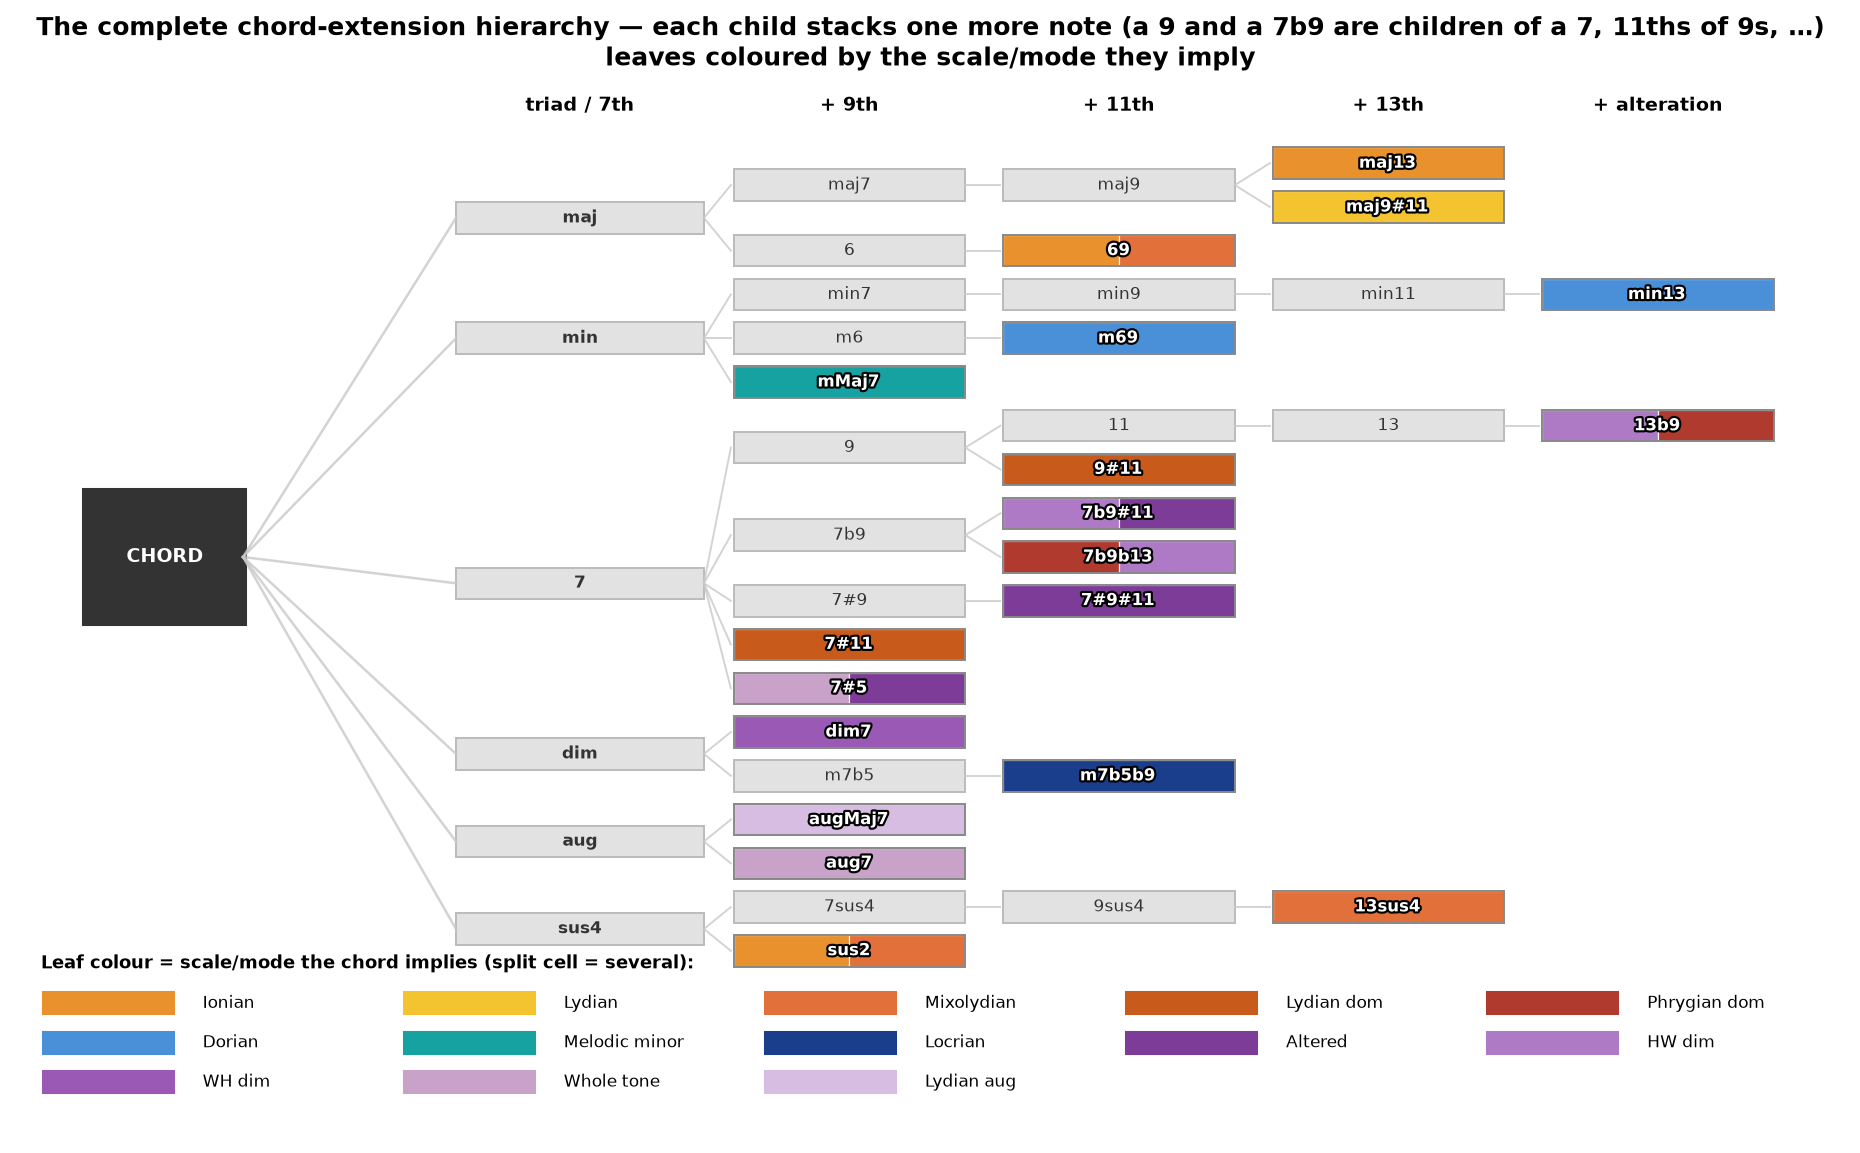
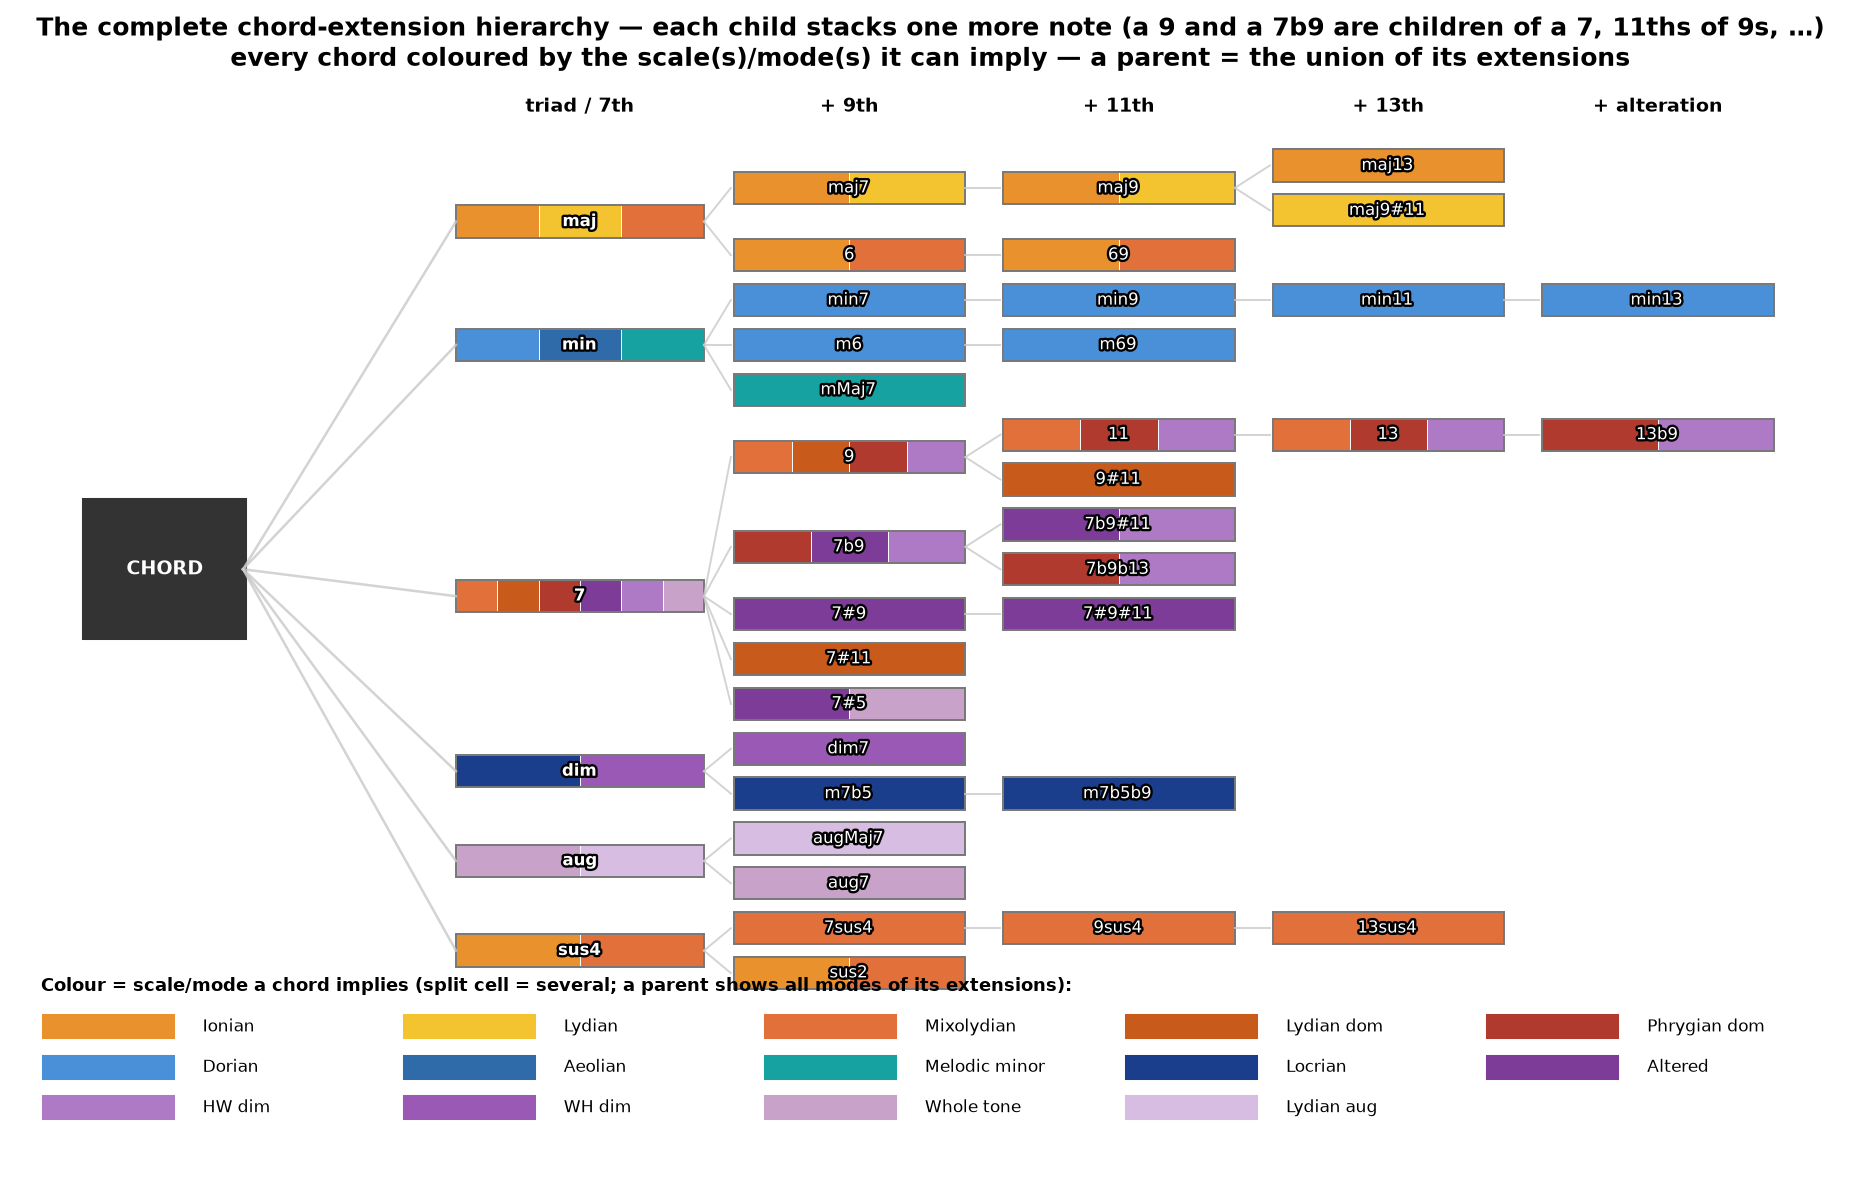
viz: colour parents with the union of their children's modes (all modes they can imply)
Every chord node (not just leaves) is now coloured by the union of scale/modes over
its subtree — a parent shows all the modes it can correspond to (7 = Mixolydian +
Lydian-dom + Phrygian-dom + Altered + Whole-tone + HW-dim; maj = Ionian+Lydian+Mixo).

diff --git a/scripts/plot_hierarchy_trees.py b/scripts/plot_hierarchy_trees.py
@@ -198,7 +198,18 @@ MODE_PALETTE = {
     "Altered": "#7D3C98", "HW dim": "#AF7AC5", "WH dim": "#9B59B6",
     "Whole tone": "#C8A2C8", "Lydian aug": "#D7BDE2",
 }
-INTERNAL_FILL = "#E2E2E2"   # parents are NOT coloured (deduced from their extensions)
+# own mode(s) of the INTERNAL chords (parents), so a parent shows the union of all
+# modes in its subtree = every mode it can correspond to.
+CHORD_INTERNAL_MODES = {
+    "maj": ["Ionian"], "min": ["Dorian", "Aeolian"], "dim": ["WH dim"],
+    "aug": ["Whole tone"], "sus4": ["Mixolydian"],
+    "maj7": ["Ionian"], "6": ["Ionian"], "7": ["Mixolydian"],
+    "min7": ["Dorian"], "m6": ["Dorian"], "m7b5": ["Locrian"],
+    "maj9": ["Ionian"], "9": ["Mixolydian"], "7b9": ["Phrygian dom", "HW dim"],
+    "7#9": ["Altered"], "min9": ["Dorian"], "9sus4": ["Mixolydian"],
+    "11": ["Mixolydian"], "min11": ["Dorian"], "13": ["Mixolydian"],
+}
+CHORD_ALL_MODES = {**CHORD_LEAF_MODES, **CHORD_INTERNAL_MODES}
 
 
 def plot_extension_hierarchy():
@@ -218,11 +229,25 @@ def plot_extension_hierarchy():
     n = leafy[0]
     maxd = max(d for d, _ in pos.values())
 
-    fig, ax = plt.subplots(figsize=(1.9 * (maxd + 1) + 2, 0.36 * n + 1.5))
+    # every node's modes = union of its own + all descendants' (ordered), so a
+    # parent shows all the modes it can correspond to.
+    node_modes = {}
+
+    def collect(node, path):
+        s = set(CHORD_ALL_MODES.get(path[-1], []))
+        for k, v in node.items():
+            s |= collect(v, path + (k,))
+        node_modes[path] = [m for m in MODE_ORDER if m in s]
+        return s
+
+    for (fam, root), sub in EXT_TREE.items():
+        collect(sub, (fam, root))
+
+    fig, ax = plt.subplots(figsize=(1.9 * (maxd + 1) + 2, 0.36 * n + 1.7))
     xstep = 1.0
 
     import matplotlib.patheffects as pe
-    outline = [pe.withStroke(linewidth=2.2, foreground="black")]
+    outline = [pe.withStroke(linewidth=2.4, foreground="black")]
     used_modes = set()
 
     def draw(node, path, fam):
@@ -230,24 +255,15 @@ def plot_extension_hierarchy():
         label = path[-1]
         w = 0.92 if d <= 1 else 0.86
         x0, yy = d * xstep - w / 2, n - 1 - y
-        if not node and label in CHORD_LEAF_MODES:
-            # terminal chord: colour the cell by the mode(s) it implies (split if several)
-            modes = CHORD_LEAF_MODES[label]
-            used_modes.update(modes)
-            sw = w / len(modes)
-            for i, mode in enumerate(modes):
-                ax.add_patch(Rectangle((x0 + i * sw, yy - 0.36), sw, 0.72,
-                                       facecolor=MODE_PALETTE[mode], edgecolor="white", lw=0.6))
-            ax.add_patch(Rectangle((x0, yy - 0.36), w, 0.72, fill=False,
-                                   edgecolor="#888", lw=1))
-            ax.text(d * xstep, yy, label, ha="center", va="center", color="white",
-                    fontsize=8.5, fontweight="bold", path_effects=outline)
-        else:
-            # parent: NOT coloured (its colour is deduced from its unaltered extension)
-            ax.add_patch(Rectangle((x0, yy - 0.36), w, 0.72, facecolor=INTERNAL_FILL,
-                                   edgecolor="#bbb", lw=1))
-            ax.text(d * xstep, yy, label, ha="center", va="center", color="#333",
-                    fontsize=8.5, fontweight="bold" if d <= 1 else "normal")
+        modes = node_modes.get(path) or ["Ionian"]
+        used_modes.update(modes)
+        sw = w / len(modes)
+        for i, mode in enumerate(modes):
+            ax.add_patch(Rectangle((x0 + i * sw, yy - 0.36), sw, 0.72,
+                                   facecolor=MODE_PALETTE[mode], edgecolor="white", lw=0.5))
+        ax.add_patch(Rectangle((x0, yy - 0.36), w, 0.72, fill=False, edgecolor="#777", lw=1))
+        ax.text(d * xstep, yy, label, ha="center", va="center", color="white",
+                fontsize=8.5, fontweight="bold" if d <= 1 else "normal", path_effects=outline)
         for k, v in node.items():
             cd, cy = pos[path + (k,)]
             ax.plot([d * xstep + w / 2, cd * xstep - 0.44],
@@ -272,8 +288,8 @@ def plot_extension_hierarchy():
 
     # legend: leaf cells coloured by implied mode/scale (Ionian first)
     legend_modes = [m for m in MODE_ORDER if m in used_modes]
-    ax.text(-1.0, -0.4, "Leaf colour = scale/mode the chord implies "
-            "(split cell = several):", fontsize=9, fontweight="bold", ha="left")
+    ax.text(-1.0, -0.4, "Colour = scale/mode a chord implies (split cell = several; "
+            "a parent shows all modes of its extensions):", fontsize=9, fontweight="bold", ha="left")
     per_row = 5
     for i, mode in enumerate(legend_modes):
         col = i % per_row
@@ -289,7 +305,8 @@ def plot_extension_hierarchy():
     ax.axis("off")
     ax.set_title("The complete chord-extension hierarchy — each child stacks one more "
                  "note (a 9 and a 7b9 are children of a 7, 11ths of 9s, …)\n"
-                 "leaves coloured by the scale/mode they imply",
+                 "every chord coloured by the scale(s)/mode(s) it can imply — a parent = "
+                 "the union of its extensions",
                  fontsize=13, fontweight="bold", pad=12)
     plt.tight_layout()
     fig.savefig(PLOTS / "hierarchy_chord_extensions.png", dpi=140, bbox_inches="tight")